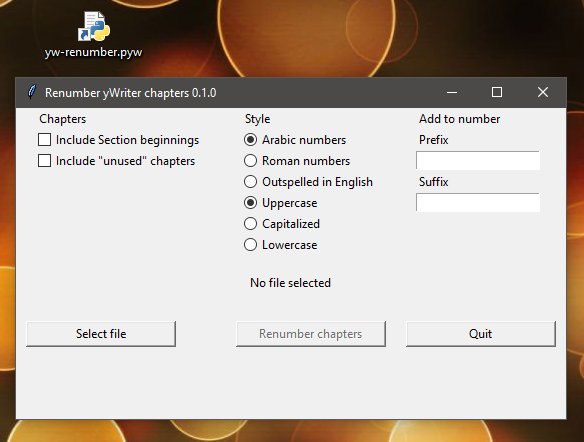
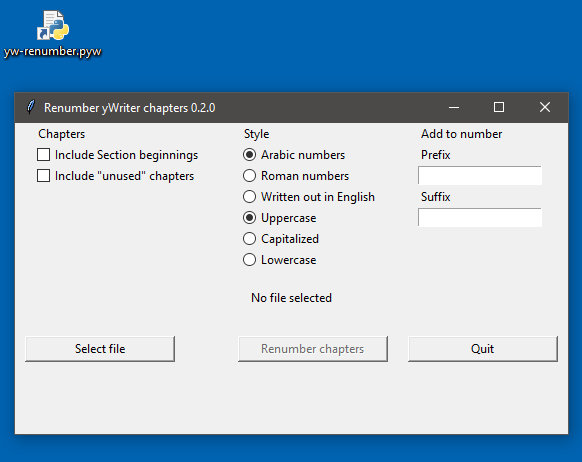
Prepare v0.2.0 based on PyWriter v3.10.2
- Fix style index.
- Modify label.
- Update documentation.

diff --git a/src/ywrenumber/yw_rn.py b/src/ywrenumber/yw_rn.py
@@ -133,7 +133,7 @@ class YwRn():
                 if kwargs['case'] == 0:
                     number = number.upper()
 
-                elif kwargs['case'] == 2:
+                elif kwargs['case'] == 1:
                     number = number.capitalize()
 
                 source.chapters[chId].title = kwargs['prefix'] + \

diff --git a/src/ywrenumber/rn_ui.py b/src/ywrenumber/rn_ui.py
@@ -24,7 +24,7 @@ class RnUi(UiTk):
     tUnused = 'Include "unused" chapters'
     tArabic = 'Arabic numbers'
     tRoman = 'Roman numbers'
-    tEnglish = 'Outspelled in English'
+    tEnglish = 'Written out in English'
     tLowercase = 'Lowercase'
     tUpcase = 'Uppercase'
     tCapitalize = 'Capitalized'

diff --git a/docs/usage.md b/docs/usage.md
@@ -2,7 +2,7 @@
 
 --- 
 
-The *yw-renumber* Python script creates configurable reports from yWriter projects.
+The *yw-renumber* Python script rewrites chapter titles in yWriter 7 projects.
 
 ## Usage
 
@@ -13,50 +13,37 @@ You can either
 - launch the program by double-clicking on the program/link icon, or
 - launch the program by dragging a yWriter project file and dropping it on the program/link icon.
 
-The report generator processes .yw5, .yw6 and .yw7 project files. If no yWriter project is specified by dragging and dropping on the program icon, the latest project selected is preset. You can change it with **Select File**.
+*yw-renumber* processes .yw7 project files. If no yWriter project is specified by dragging and dropping on the program icon, the latest project selected is preset. You can change it with **Select File**.
 
-The report options are set by ticking checkboxes. On program startup, the latest options selected are preset.
+The style options are set by ticking checkboxes and filling out forms. On program startup, the latest options selected are preset.
 
-When the yWriter project is selected and the options are set, you can launch the report generator with **Create report**. A HTML report file is created in the yWriter project folder, and a web browser window opens to show it. If a report file already exists, you will be asked before it is overwritten.
-
-If you wish to keep a report, you can save it under a different name from within the web browser.
-
-You can generate as many reports with different options as you like without exiting the program in between. Note, however, that a new tab may be created in the web browser each time, so that you can also see earlier reports for which there is no longer a file.
+When the yWriter project is selected and the options are set, you can launch the renumbering with **Renumber chapter**. The new chapter titles are written directly into the yWriter project file. If the project is open in yWriter, you will be asked to exit yWriter first.
 
 
 ### Options
 
-#### Level options
+#### Chapters
 
-- **Include chapters** -- Create table rows for chapters as specified below.
-- **Include scenes** -- Create table rows for scenes as specified below.
+By default, all normal chapters are renumbered, which are displayed in thin green text in the yWriter chapter list. If you wish to exclude chapters from the numbering, you can change temporarily their type to *"ToDo"* or *"Notes"*, or mark them temporarily *"unused"*. Another option is to mark them as *section beginnings* (see below).
 
-#### Type options
+- **Include Section beginnings** -- Include chapters marked *"This chapter begins a new section"* in the yWriter chapter dialog.
+- **Include "unused" chapters** -- Include chapters marked *"Unused"* in yWriter.
 
-- **Include normal** -- Create a table row for every "normal" chapter or scene.
-- **Include unused** -- Create a table row for every "unused" chapter or scene.
-- **Include notes** -- Create a table row for every chapter or scene marked "Notes" or "Info".
-- **Include todo** -- Create a table row for every chapter or scene marked "ToDo" (.yw7 only).
-- **Include unexported** -- Create table rows for scenes that won't be exported as RTF from yWriter.
+#### Styles
 
-#### Columns
+- **Arabic numbers** -- 1, 2, 3 ...
+- **Roman numbers** -- I, II, III ... (case can be set)
+- **Written out in English** -- ONE, TWO, THREE ... (case can be set)
+- **Uppercase** -- All characters of the number are uppercase.
+- **Capitalized** -- The first character of the number is uppercase, the others are lowercase.
+- **Lowercase** -- All characters of the number are lowercase.
 
-- **Title** -- Create a column for chapter/scene titles.
-- **Description** -- Create a column for chapter/scene descriptions.
-- **Viewpoint** -- Create a column for scene viewpoints.
-- **Tags** -- Create a column for scene tags (comma separated).
-- **Notes** -- Create a column for scene notes.
-- **Date** -- Create a column for either specific date or day.
-- **Time** -- Create a column for either specific time or hour/minute.
-- **Duration** -- Create a column for days, hours, minutes the scene lasts.
-- **A/R-Goal-Conflict-Outcome** -- Create four columns (A/R, Goal etc.) 
-- **Ratings** -- Create four columns (scene rating 1-4).
-- **Word count** -- Create a column for scene word count.
-- **Letter count** -- Create a column for scene letter count.
-- **Status** -- Create a column for scene status (Outline, Draft etc.)
-- **Characters** -- Create a column for characters in scene (comma separated).
-- **Locations** -- Create a column for locations in scene (comma separated).
-- **Items** -- Create a column for items in scene (comma separated).
+Note: The case options do not apply to the prefix and suffix.
+
+#### Add to number
+
+- **Prefix** -- A string preceding all numbers.
+- **Suffix** -- A string following all numbers.
 
 
 ## Configuration file

diff --git a/docs/index.md b/docs/index.md
@@ -2,6 +2,12 @@
 
 [yWriter](http://spacejock.com/yWriter7.html) is a free word processor written by Australian author and programmer Simon Haynes. 
 
+When you create a new chapter in yWriter, a Name "Chapter x" is preset with x as chapter number. After moving the chapter, you can invoke a renumbering function. 
+
+Non-English speakers and writers with special requirements for chapter numbering might like the *yw-renumber* software, which offers a little more variability here. Chapters can be numbered with Arabic, Roman or written out in English. In addition, the numbers can be preceded by a prefix and followed by a suffix.
+
+*yw-renumber* works with .yw7 project files. 
+
 The *yw-renumber* script has a graphical user interface. However, a Python 3 installation is required to run it.
 
 ## Requirements
@@ -10,9 +16,9 @@ The *yw-renumber* script has a graphical user interface. However, a Python 3 ins
 
 ## Download and install
 
-[Download the latest release (version 0.1.0)](https://raw.githubusercontent.com/peter88213/yw-renumber/master/dist/yw-renumber_v0.1.0.zip)
+[Download the latest release (version 0.2.0)](https://raw.githubusercontent.com/peter88213/yw-renumber/master/dist/yw-renumber_v0.2.0.zip)
 
-- Unzip the downloaded zipfile "yw-renumber_v0.1.0.zip" into a new folder and open "README.md" for usage instructions.
+- Unzip the downloaded zipfile "yw-renumber_v0.2.0.zip" into a new folder and open "README.md" for usage instructions.
 
 [Changelog](changelog)
 

diff --git a/docs/template/index.md b/docs/template/index.md
@@ -2,6 +2,12 @@
 
 [yWriter](http://spacejock.com/yWriter7.html) is a free word processor written by Australian author and programmer Simon Haynes. 
 
+When you create a new chapter in yWriter, a Name "Chapter x" is preset with x as chapter number. After moving the chapter, you can invoke a renumbering function. 
+
+Non-English speakers and writers with special requirements for chapter numbering might like the *yw-renumber* software, which offers a little more variability here. Chapters can be numbered with Arabic, Roman or written out in English. In addition, the numbers can be preceded by a prefix and followed by a suffix.
+
+*yw-renumber* works with .yw7 project files. 
+
 The *yw-renumber* script has a graphical user interface. However, a Python 3 installation is required to run it.
 
 ## Requirements

diff --git a/README.md b/README.md
@@ -1,2 +1,8 @@
-# yw-renumber-chapters
-Renumber yWriter chapters
+# yw-renumber - Renumber yWriter chapters
+
+For more information, see the [project homepage](https://peter88213.github.io/yw-renumber) with description and download instructions.
+
+## License
+
+yw-renumber is distributed under the [MIT License](http://www.opensource.org/licenses/mit-license.php).
+

diff --git a/docs/changelog.md b/docs/changelog.md
@@ -4,12 +4,7 @@
 
 ## Changelog
 
-### v0.4.0 Add date, time and duration columns
+### v0.2.0 Beta test release 
 
-Based on PyWriter v 3.10.0
-
-
-### v0.2.0
-
-Beta test release based on PyWriter v3.8.2.
+Based on PyWriter v3.10.2.
 
